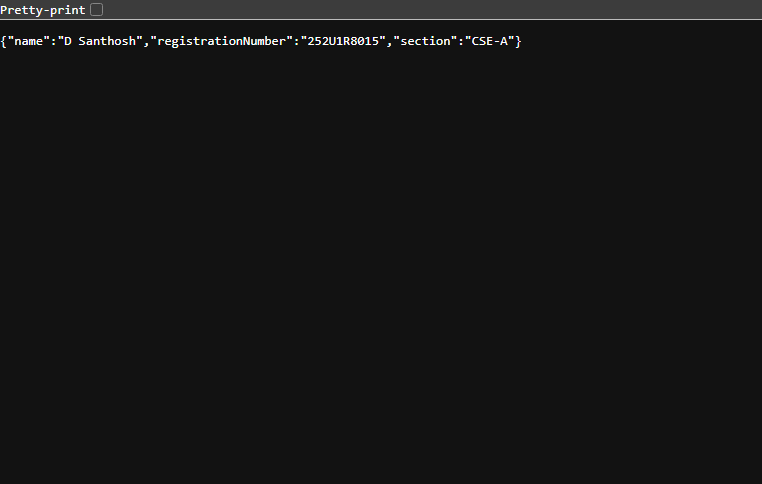
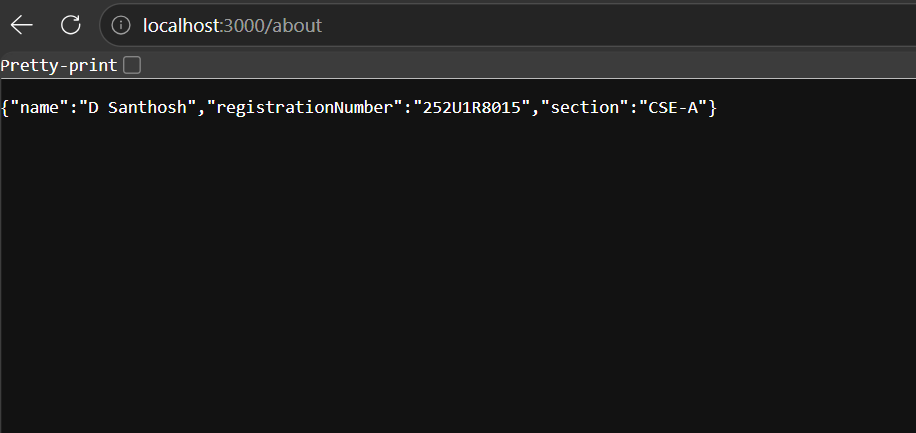
docs(lab-01): update screenshots and README links with user captured images

Changed region(s): [[0.0, 0.0, 1.0, 0.2702]]

diff --git a/lab-01/README.md b/lab-01/README.md
@@ -104,7 +104,7 @@ npm install
 > Place your browser or Postman screenshots in `screenshots/` and update these filenames if needed:
 
 - **GET /**: Welcome Route
-  ![GET /](screenshots/route_root.png)
+  ![GET /](screenshots/route_get.png)
 
 - **GET /about**: Student Info JSON
   ![GET /about](screenshots/route_about.png)
@@ -114,28 +114,10 @@ npm install
 
 - **404 Not Found Route**:
   ![404 Error](screenshots/route_404.png)
-
-- **Terminal Output & Server Status Logs**:
-  ![Terminal Logs](screenshots/server_logs.png)
-
 ---
 
-## 6. Viva Questions & Key Concepts
 
-### Q1: What is the difference between `package.json` and `node_modules`?
-- **`package.json`**: A lightweight metadata manifest file checked into source control (Git). It tracks project configuration, custom scripts, and lists abstract package dependencies and version ranges (`^5.0.0`).
-- **`node_modules`**: The physical directory containing the actual downloaded code and dependencies of all installed packages and sub-dependencies. It is large, machine-specific, and should **never** be committed to Git (excluded via `.gitignore`).
-
-### Q2: What does `app.listen()` do?
-`app.listen(port, [callback])` binds the Express application to the specified network port and host, creating an underlying Node.js `http.Server` instance. It instructs the operating system to start listening for incoming TCP connections and dispatches matching HTTP requests to Express middleware and route handlers.
-
-### Q3: What do `request` (`req`) and `response` (`res`) represent?
-- **`request` (`req`)**: An object representing the incoming HTTP request from the client. It contains request headers, HTTP method, URL path, query parameters (`req.query`), route parameters (`req.params`), and body payload (`req.body`).
-- **`response` (`res`)**: An object representing the outgoing HTTP response that the server sends back to the client. It provides methods like `res.status()`, `res.send()`, `res.json()`, and `res.setHeader()` to construct and finalize the response.
-
----
-
-## 7. Notes: Problems Faced & Solutions
+## 6. Notes: Problems Faced & Solutions
 
 1. **Port Conflicts & Server Testing**:
    - *Problem*: Testing both `http-server.js` and `index.js` simultaneously resulted in `EADDRINUSE` port collision on port 3000.
